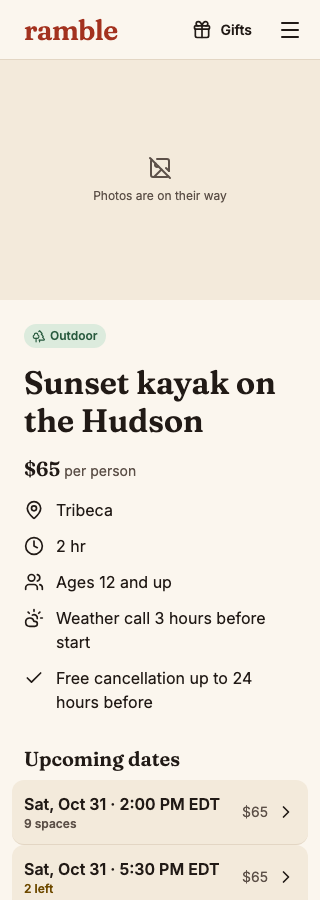
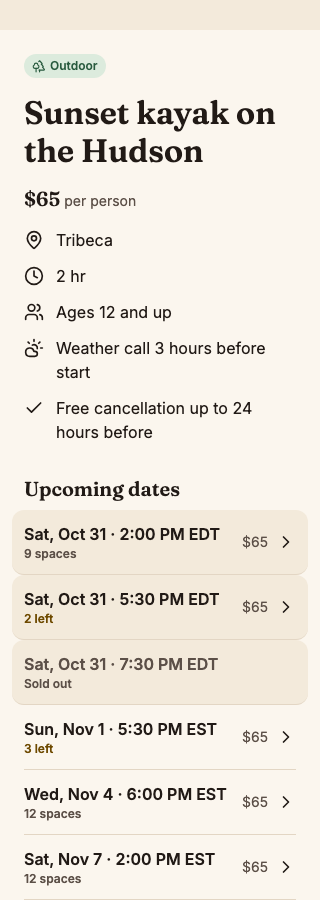
e2e-money: U-047b merged (PR 278); U-040 passed; U-050, U-041 built

diff --git a/STATUS.md b/STATUS.md
@@ -82,6 +82,7 @@ Several PM chats run at once. Each works one lane and writes only its own parts 
 - **2026-10-29 12:10, opened by the lead, not started.** Scope: the clear fixes across the three audit files that the `src/lib` refactor does not absorb. Home (`audits/home-2026-10-28.md`): every row whose status is `open` except the DRY items the refactor takes (H-2, H-25, H-43, H-44, H-45, H-51, H-52, H-57, H-58, H-59, H-60, H-61, H-62, H-63, H-69, H-76 to H-79) and the owner decisions (the lead brings those to Dave as one recommendations doc). Browse and experience: BE-13, BE-8, BE-7, BE-14, BE-1 (marked fix, in that order). Nightly: N1029-1 (high: seed guard lets a production Neon URL through), N1029-2 (H-19 partial), N1029-3, 4, 5, 6, 7, 10, 11. Group by file into small PRs, each with before-and-after evidence. Shares the five-builder limit with `e2e-money`: two builders until the lead says otherwise.
 
 ### Lane: e2e-money
+- **2026-10-29 23:44, U-047b merged; U-040 passed; U-050 and U-041 built.** (1) **U-047b merged into `integration`** (PR 278, `44b4444`); Done on board #19 (1.0 day against 1.75 / 3 / 6). The real checkout is in `integration`, with the demo click-through kept until U-041. (2) **U-040** (dates and spaces left) round 1, all five PASS (QA on a seeded production build: CLS 0 for six dates, spaces left match the database and refresh within the cache window, one spaces read per row, `?date=` on the session's own calendar); merging `44b4444` (one conflict: the identical `zonedShortDayLabel`). (3) **U-050** (confirmation page) built; merging `44b4444` (route move into `(site)`). (4) **U-041** (booking bar) built at `0614c3b`; its builder placed a real hold through the bar on a live database and reached `/checkout/<holdId>`; rulings in DECISIONS; widening the booking choices beyond six dates before its merge and review. Landing order: U-040, U-050, U-041; then the seeded click-through. Promotion of `integration` to `main` is Dave's call any time: guests keep the demo click-through until U-041 lands.
 - **2026-10-29 20:36, U-049 merged; U-040 and U-050 built; U-041 building; U-047b round 3.** (1) **U-049 merged into `integration`** (PR 277, `98096b2`; one CI flake fixed in tests, BC-27, BC-28); Done on board #19 (0.3 days against 2 / 4 / 8). `integration` now confirms a paid booking end to end through the webhook. (2) **U-047b** round 3 at `435d30b` (squashed on `98096b2`): the summary toggle fixed in the shared `OrderSummary`, the per-request log traced to Next's prerender-end signal wrapped by the Neon driver and silenced in `rethrowOrLog`, honest re-hold refusals, focus after re-hold; five checks running. (3) **U-040** (dates and spaces left) at `2dd8c1d` on `98096b2`: review, spec, architecture, a11y PASS; QA running. (4) **U-050** (confirmation page) built at `e60c315` (proxy handoff for the token, `getOrderStatus` poller, receipt with calendar and maps, manage link once confirmed; seller-of-record wording a PM ruling for Dave); it merges after U-047b lands (route move). (5) **U-041** (booking bar) building from U-040's head. Landing order: U-047b, U-040, U-050, U-041; then a seeded click-through on the fake gateway for Monday.
 - **2026-10-29 20:15, U-049 PR 277 open; U-050 and U-040 building.** (1) **U-049** (`confirmOrder`) round 1, all four PASS (QA through the real route: the worked example to the cent, one scheduled transfer at session end + 24 h, both emails in the dev mailbox; a replay changes nothing; a lapsed hold without room keeps retrying behind the U-109 seam; an amount mismatch alerts once; three mutations each killed). PR 277 into `integration`, checks posted, auto-merge queued. (2) **U-050** (confirmation page) builder launched from `unit/U-049` `81b8171`; **U-040** (dates and spaces left) from `integration` `b2314f1`; both In Progress on board #19 (DECISIONS: no pattern notes needed). (3) **U-047b** round 2 waiting on QA, then round 3 (the desktop summary toggle). Path to Monday after these: U-041 (booking bar, needs U-040), then a full click-through on the fake gateway.
 - **2026-10-29 20:11, U-048 merged; U-049 built and in review; U-047b round 2 nearly done.** (1) **U-048 merged into `integration`** (PR 276, `b2314f1`); Done on board #19 with actuals (1.0 day against 1.5 / 3 / 6); worktree removed (`unit/U-048` kept locally until U-049 lands). `integration` now holds U-005, U-019, U-045b, U-015, U-014a, U-054, U-016, U-047a, U-014b, U-048: promotion to `main` is Dave's call (no guest-visible change until U-047b). (2) **U-049** (`confirmOrder`) built in about 17 minutes: `confirmDecision` in lib, the booking confirm (seats, hold converted, order confirmed, manage hash, `bookingPaid` and the card fee, a scheduled transfer, two email jobs), the refund path behind a U-109 seam, not-built gift and exchange stubs, 22 db tests including the end-to-end through the webhook route and a last-seat race; re-parented onto `b2314f1` with an identical tree as `81b8171`; four round 1 checks running (`drafts/u-049-checks/brief.md`). (3) **U-047b** round 2 at `8c8d1bb` (squashed on `b2314f1`): spec and architecture PASS; review and a11y FAIL on one item (the desktop summary toggle reads collapsed over a visible panel, WCAG 4.1.2); QA running; round 3 moves the 768 px behaviour into `OrderSummary`. PM ruling: the two-transaction re-hold is accepted (BC-24).

diff --git a/drafts/u-047b-pr-body.md b/drafts/u-047b-pr-body.md
@@ -1,0 +1,31 @@
+Unit U-047b, issue #55. Standard tier, into `integration` (PM ruling, DECISIONS 2026-10-29: `startPayment` lives there). Three rounds plus three merges of `integration`; all five checks (review, qa, spec-compliance, architecture-audit, a11y-audit) passed round 3. Squashed to one commit because CI's gitleaks scans every PR commit and an early commit carried a false positive.
+
+SCOPE MANIFEST
+IN SCOPE: Screen 05 and D05: contact, unticked opt-in, attendee age and guardian fields from `ageRule.requirements`, waiver and terms, validation display, hold timer, order summary, express pay area and the provider card island wired to the fake gateway, demo no-payment notice, checkout maintenance state; on success, to `/orders/[reference]` with the order token.
+OUT OF SCOPE: `startPayment` logic (U-047a), the booking bar (U-041), webhooks and `confirmOrder` (U-048, U-049), the confirmation page (U-050), gift checkout, `docs/plan/`, `.github/`, `.claude/`.
+REFERENCE CODE: design doc 4.2.3 (the `startPayment` contract and outcomes), 5.2 (S6, S7, S9); ADR 0007; Figma 05 Checkout (the only frame; no D05 or state frames yet).
+
+## What was built
+- **`/checkout/[holdId]`** (`src/app/(checkout)/checkout/[holdId]/page.tsx`) reads the view for the calling device (`readCheckoutView`; another device's, missing, gift, converted or released holds read as not found; missing terms or a required waiver throw) and renders one client island, `CheckoutPage`: contact, the opt-in unticked, the age and guardian fields from `ageRequirements`, waiver and terms, validation with a summary and focus on the first error (the server's schema runs in the browser first, so a bad form never spends one of the hold's 5 tries), the hold timer from the database clock, the order summary, and the fake card island.
+- **Pay in two taps**: "Continue to payment" calls `startPayment` (never on load, refresh or re-render; a test mounts the page five times), then the fake form's own Pay with the wallets above it; success goes to `/orders/<ref>?t=<token>`.
+- **States**: S6 (hold ended, with "Hold my spaces again"), S7 (sold out, with other dates), S9 (lost answer), too many tries, maintenance, all taking focus on change.
+- **Re-hold** (`src/server/actions/rehold.ts`, `src/server/db/rehold.ts`): only the caller's own lapsed hold, released under the session and hold locks, then `reserveSpaces` for the same party read from the server; a live, paying or another device's hold is refused uniformly; a refusal after the release says the hold has ended and links back to the experience.
+- **`OrderSummary`** gains an opt-in `openFrom="tablet"`: open with a plain heading from 768 px, toggle below.
+- **`rethrowOrLog`** no longer logs Next's prerender-end signal when the Neon driver wraps it (`isPrerenderEnd`), so a normal render logs nothing.
+- Route groups: `(checkout)` is a bare document for the island's header; the stub frame moved to `(site)` (gift, gifts, manage, orders). The demo click-through stays until U-041 (`TODO(U-041)`).
+
+## Decisions to know about
+- PM rulings (DECISIONS 2026-10-29): two-tap pay (a recorded design departure); the full-pay e2e waits for a seeded e2e mode (BC-19, needs `.github`); the re-hold runs in two transactions and loses the guest nothing (BC-24); re-hold skips BotID because ADR 0007 keeps it out of checkout, bounded by the `reserve` rate limit and the device's own lapsed hold.
+- Figma has only the lo-fi 05 frame; eight differences beyond the two-tap departure are listed for the owner (BC-22).
+
+## Gates (on this head)
+format:check, lint, typecheck, knip; test 6,030; test:db 1,547 with `--maxWorkers=2`; build with no `DATABASE_URL`; db:check, `db:generate` with no changes; e2e 163; storybook:test 227 (axe); gitleaks over the branch range (no leaks). QA on a seeded production build at 320 to 1280 px, light and dark: no sideways scroll with a 59:59 timer; twelve replays of the re-hold on a live hold make none and on one lapsed hold make exactly one; reloads never call `startPayment`; the pay flow lands on the order page.
+
+## Not done
+- The real confirmation page is U-050; the booking bar that creates real holds is U-041.
+- Audit items BC-19 to BC-24 and BC-29 in `ramble-pm` `audits/booking-checkout.md`.
+
+## Evidence
+`evidence/pr/unit-U-047b/` in `ramble-pm` (before and after at 390 and 1280, light and dark; S6, S7, S9; the header at 320 and 390; a full pay GIF from Storybook) and `evidence/pr/unit-U-047b-qa-agent/` (QA's production-build screenshots).
+
+🤖 Generated with [Claude Code](https://claude.com/claude-code)

diff --git a/delta-log.md b/delta-log.md
@@ -76,3 +76,4 @@ Where reality departs from the frozen plan (`plan-frozen-2026-10-20`). One line 
 | 2026-10-29 | U-014b Hold rules and upkeep (e2e-money lane from 16:30, closed) | Merged into `integration` as PR 274 (`16231c0`, squash) on 2026-10-29 19:55 EDT. Actual 0.7 days (builder launch about 17:45 to merge, agent wall clock) against 1 / 2 / 4.5; 0 owner minutes; about 1.9M tokens (builder over two rounds and two merges plus eight checks). Two rounds: round 1 found one export used only by tests and a release split in the data layer, and QA showed the race test could not tell whether the address lock existed (12 devices on one address across 12 sessions held 10 seats without it); round 2 fixed both and added a cross-session test, then merged `integration` twice (U-047a; the PR 241 main sync) and renumbered the migration to `0018`. An early e2e failure was the sandbox blocking Chromium, not the diff. | Under the estimate by over 60%. Two design-doc departures recorded above. |
 | 2026-10-29 | U-048 Webhook intake and the event table (e2e-money lane from 16:30, closed) | Merged into `integration` as PR 276 (`b2314f1`, squash) on 2026-10-29 20:10 EDT. Actual 1.0 day (builder launch about 16:45 to merge, agent wall clock) against 1.5 / 3 / 6; 0 owner minutes; about 2.6M tokens (builder over two rounds and three merges plus twelve checks). Human-led in the plan; built by an agent under a pattern note (DECISIONS). Three rounds: round 1 found ten B2 decisions in the route, job and data layer, a provider call inside the job's transaction, no test of the post-lock re-read, and that a success would be stranded while `confirmOrder` is a stub (PM ruling: it re-enqueues itself with backoff and gives up with one alert at 25); round 2 fixed all of it with a `prepare` hook on the job registry; round 3 merged `integration` twice (U-047a and the main sync; U-014b) and reconciled `lockOrderRow` with U-047a's. | Under the estimate by about 65%. |
 | 2026-10-29 | U-049 confirmOrder for bookings (e2e-money lane, closed) | Merged into `integration` as PR 277 (`98096b2`, squash) on 2026-10-29 20:27 EDT. Actual 0.3 days (builder launch about 19:55 to merge, agent wall clock) against 2 / 4 / 8; 0 owner minutes; about 1.0M tokens (builder, four checks, one CI fix). Human-led in the plan; built by an agent under a pattern note written the same evening (DECISIONS). One review round, all four PASS (QA reproduced the worked example to the cent through the real route); CI's db job then failed on a test that forced a job due by the database clock and drained by the JS clock (BC-27, BC-28), fixed in tests only and re-checked. | Under the estimate by over 90%: U-048's seam and the pattern note left only the booking branch to write. |
+| 2026-10-29 | U-047b Checkout page (e2e-money lane, closed) | Merged into `integration` as PR 278 (`44b4444`, squash) on 2026-10-29 21:00 EDT. Actual 1.0 day (builder launch about 16:20 to merge, agent wall clock) against 1.75 / 3 / 6; 0 owner minutes; about 4.4M tokens (builder over three rounds and three merges plus fifteen checks). Three rounds: round 1 found a re-hold that minted a live hold on every call with no bot check (QA reproduced 12 holds from one), the header timer overflowing at 320 px, duplicated helpers, an island hook off the allowlist; round 2 found the desktop summary toggle reading collapsed over an open panel; QA also traced a log line on every request to Next's prerender-end signal wrapped by the Neon driver. Two-tap pay recorded as a design departure; the full-pay e2e waits for a seeded e2e mode (BC-19). | Under the estimate by about 65%. |

diff --git a/audits/booking-checkout.md b/audits/booking-checkout.md
@@ -34,3 +34,7 @@
 | BC-26 | A late `payment.succeeded` for an order already `cancelled` or `refunded_after_lapse` makes `confirmDecision` throw, so the event retries quietly until U-048's give-up cap alerts at 25. Fails closed; decide the right answer (refund the late payment) in U-109 or U-056. | Architecture | U-049 review | open (U-109) |
 | BC-27 | Db tests that force a job due with `run_after = now()` (database clock) and then drain against the JS clock flake when the clocks differ; CI failed PR 277 on one. Use a time safely in the past on both clocks, or drain with an explicit clock. | Tooling | U-049 CI | fix: U-049 |
 | BC-28 | `jobs.run_after` defaults to the database clock while `claimDueJobs` compares it with the app's JS clock, so a just-enqueued job can be not yet due by the clock difference (seen as test flakes; in production the next drain picks it up). Compare in SQL with `now()` or pass one clock both ways. | Architecture | U-049 CI fix | open (U-005 owner) |
+| BC-29 | `OrderSummary.tsx` (`openFrom` branch): the new `<h2>` sits inside a `<span>` (block content in phrasing content, invalid HTML); and the checkout h1's `:focus { outline: none }` hides where focus went after a re-hold. | Accessibility | U-047b round 3 a11y | open |
+| BC-30 | Checkout: after a lapse-block, paused or seat-limit refusal from S6 focus drops to BODY (the alert is announced; focus it as S7 does); with JS off below 768 px the summary cannot be opened; the sold-out panel keeps the earlier "Your hold has expired." line. | Accessibility | U-047b round 3 QA | open |
+| BC-31 | Experience page dates: the six-row skeleton shifts content up when fewer dates load (2 dates: 260 px, CLS 0.040 at 390 px) and the empty and error states shrink the section; the retry form drops `?date=`; the `?date=` row's background is about 1.1:1 against the page and the same as hover (needs a border or marker). | Visual, accessibility | U-040 QA and a11y | open |
+| BC-32 | `releaseHold` (U-014a) still has no caller and carries a stale `TODO(U-041): first caller`; no unit in `units.yaml` releases a hold on the guest leaving checkout. Owner call: a "leave checkout" release in a later unit, or drop the action. | Architecture | U-041 builder | open (owner) |

diff --git a/DECISIONS.md b/DECISIONS.md
@@ -191,3 +191,4 @@ Choices kept for speed that later work may need to undo. Each is cheap now and c
 - **2026-10-29, e2e-money lane, PM ruling on U-047b round 2 (Dave can overrule):** the two-transaction re-hold (release the lapsed hold, then `reserveSpaces`) is accepted: review and architecture found it loses the guest nothing and cannot race into two holds (BC-24). The desktop summary toggle's wrong `aria-expanded` is fixed now in the shared `OrderSummary` (it owns the 768 px open-by-default behaviour and hides its toggle there), which also removes the checkout stylesheet reaching into another component's markup.
 - **2026-10-29, e2e-money lane, U-040 and U-050 launched without pattern notes (PM; Dave can overrule):** both are small, agent-fan-out units whose units.yaml scope is exact enough for a scope manifest. U-050 (critical) is cut from `unit/U-049` and goes into `integration`; it reads the order token from `?t=` once and replaces the URL so the token leaves history and the Referer (BC-20). U-040 (standard) is cut from `integration` and goes into `integration`, because U-014b's cached spaces-left read lives there; it is the first caller of `getSpacesLeft`.
 - **2026-10-29, e2e-money lane, PM ruling on U-050 (Dave can overrule; wording is yours):** the receipt's seller-of-record line is "{Host} is the seller of this experience. Ramble collected your payment as {Host}'s agent." (Q-01 option c, ADR 0003; the design doc gives no wording). Refresh-safe access uses a proxy handoff: `/orders/<ref>?t=<token>` answers 303 to the token-free path and sets an HttpOnly, path-scoped, 2-hour cookie, so the token never renders, stays out of history and the Referer, and needs no new client island or Route Handler; the page verifies the cookie, so a forged one opens nothing.
+- **2026-10-29, e2e-money lane, PM rulings on U-041 (Dave can overrule):** the booking choices offer more than U-040's six listed dates (a bounded, wider read); the demo click-through is removed when U-041 merges U-047b; the three `*Island` files are the allowlisted bar, sheet and panel (B8); `useBookingDraft` keeps one draft per experience in a module store read with `useSyncExternalStore`, so the bar, sheet and panel agree without a shared client parent.

diff --git a/drafts/u-040-checks/r1-qa.md b/drafts/u-040-checks/r1-qa.md
@@ -1,0 +1,11 @@
+PASS
+
+## qa-agent: U-040 "Upcoming dates" (head 2dd8c1d)
+
+Scratch copy, fresh seeded Postgres, `next build` + `next start`, Playwright at 320, 390, 768, 1280 light and dark, a logging proxy counting queries. Blocking: none.
+Streaming: with reads slowed, six dates showed the skeleton at 424 px then rows at 424 px, content below unmoved, CLS 0; CLS 0 at all eight width and scheme pairs; no overflow; rows 65 px (Figma 64 plus the rule).
+Spaces against the database: seeded 12, 2, sold out, 3, 12, 12 matched; a 3-seat hold inserted directly showed 12 at once and 9 on the first request after about 10 s (the 8 s revalidate); a hold through the UI not possible until U-041.
+Read count: cold request 13 statements (1 list, 6 spaces reads with their clock reads), repeat 0, the next refresh 12; EXPLAIN `Limit 6` over an index scan on `sessions_experience_starts_at_idx` with the 90-day window; builder db test 11 of 11, new unit and component tests 45 of 45.
+Sold out stays listed as a `div` without chevron or price; time zones "Sat, Oct 31 · 2:00 PM EDT", "Sun, Nov 1 · 5:30 PM EST"; `?date=` marks exactly the right rows on the session's own calendar (no UTC-day mix-up), bad values return 200 with nothing marked; empty and error states as specified (error section only, 46 px GET retry, logs only digest and kind, not cached); contrast light 6.66:1 and 6.53:1, dark 13.2:1 and 10.1:1; Figma `_Flow/SessionRow` states match; builder's differences hold; `zonedShortDayLabel` identical to U-047b's.
+Non-blocking: the 6-row skeleton shifts content up for fewer dates (2 dates: 260 px, CLS 0.040 at 390), and the empty and error states shrink the section; retry drops `?date=`; the selected background is about 1.1:1 against the page and equals the hover colour; a paused experience shows not-found (no dates); rows link to the existing booking link.
+Evidence: `evidence/pr/unit-U-040-qa-agent/`.

diff --git a/drafts/u-047b-checks/r3-review.md b/drafts/u-047b-checks/r3-review.md
@@ -1,0 +1,21 @@
+PASS
+
+## review-agent: U-047b round 3 (head 435d30b)
+
+### Blocking
+None.
+
+### Non-blocking
+- `rethrowOrLog` now rethrows on `isPrerenderEnd` (`src/lib/prerender.ts`). It matches only a message containing "During prerendering," on the error or within 3 causes, so it cannot swallow an ordinary database error. It is a message match, so a Next.js wording change would bring the log line back, not hide anything.
+- `?t=` token in history and logs (BC-20, carried from round 2).
+
+### Round 2 findings
+- Desktop toggle: fixed. `OrderSummary.module.css` hides the toggle with `display: none` from 768 px, so it is out of the tab order and the tree. The checkout stylesheet no longer reaches into `OrderSummary`. `openFrom` is opt-in; `CheckoutPage.tsx` is the only caller that passes it, so other callers are unchanged. Stories cover desktop and phone.
+- Re-hold copy: `try_later` and `unreachable` are returned only before the claim or when the answer never arrived, and keep the retry. Every refusal after the claim sets `released`, which hides the retry and shows the experience link.
+- Merge: `git diff 98096b2 435d30b -- src/server/db/migrations` is empty. `claimLapsedHold` calls `requireHoldTransition` under the locks.
+- Scope: no new out-of-scope files. The `zonedShortDayLabel` and `orderConfirmationPath` overlaps are ignored as the brief says.
+- Unconfirmed from round 2 is closed: no copy in `src` says details are saved.
+- Tests run in a scratch copy of 435d30b: 104 passed across 9 files (prerender, monitoring, checkoutFlow, CheckoutPage, OrderSummary, checkout page).
+
+### Unconfirmed
+- I did not rerun the db, e2e or Storybook suites or do the browser QA checks; those are the qa-agent's.

diff --git a/drafts/u-047b-checks/r3-qa.md b/drafts/u-047b-checks/r3-qa.md
@@ -1,0 +1,11 @@
+PASS
+
+## qa-agent: U-047b round 3 (head 435d30b)
+
+Scratch copy, fresh seeded Postgres, `next build` + `next start`, Playwright. Blocking: none.
+Desktop toggle fixed: at 768, 1024, 1280 with JS on and off the toggle is `display: none`, out of the tab order (Tab goes from the logo to Email), no button exposed, one h2 with the title, panel visible (flex, 178 px) with title, meta, total; at 320, 390, 767 the toggle is a button `aria-expanded="false"`, at 390 a click opens and a second collapses; no sideways scroll at any width.
+Log fixed: eight `/checkout/<id>` requests with a device cookie returned 200 with only start-up lines in the server log, including after every refusal below; the real checkout renders.
+Re-hold refusals from S6 at 390, each with its cause and no "Hold my spaces again" afterwards: sold out (S7 with three dates and "See all dates"); lapse block, paused, seat limit each say the earlier hold has ended with a "Choose another date" link to the experience; a reload then shows not-found, as the copy says. Successful re-hold: `/checkout/<newId>?rehold=1`, focus on the h1.
+Merge and scope: migrations match 98096b2; 70 files under `src`, `e2e`, `tests`, `.storybook`.
+Non-blocking: after the lapse-block, paused and seat-limit refusals focus drops to BODY (announced through `role=alert`; focusing the alert would match S7); with JS off at 390 the summary cannot be opened (unchanged from round 2); the sold-out panel still shows the earlier "Your hold has expired." live-region line (cosmetic).
+Evidence: `evidence/pr/unit-U-047b-qa-agent/summary-*-r3.png`, `s6-*-r3.png`.

diff --git a/drafts/u-047b-checks/r3-spec.md b/drafts/u-047b-checks/r3-spec.md
@@ -1,0 +1,7 @@
+PASS
+
+## spec-compliance: U-047b round 3 (head 435d30b)
+
+Static check of `98096b2..435d30b` (70 files) and `8c8d1bb..b1780d6` (17 files). Blocking: none.
+The 12 scope-line clauses still pass; migrations match 98096b2; `requireHoldTransition` in `claimLapsedHold` under the locks (`src/server/db/rehold.ts`).
+Round 3: `OrderSummary` opt-in `openFrom?: 'tablet'` renders a plain `<h2>` head with title, meta, total (`fixedHead`) and `data-open-from`; other callers unchanged; `CheckoutPage.tsx:227` opts in. `isPrerenderEnd` (`src/lib/prerender.ts`) walks at most 3 causes and matches only "During prerendering,"; `rethrowOrLog` rethrows on it without logging; any other error logs as before. `try_later` only when the reserve limit blocks before anything is touched (`src/server/actions/rehold.ts:31`); network failure `unreachable` (`CheckoutPage.tsx:167`); post-claim refusals set `released` (`checkoutFlow.ts:240`), hide the retry, show "Your earlier hold has ended" and "Choose another date" (`CheckoutPage.tsx:520`). After a re-hold `/checkout/<id>?rehold=1` (`routes.ts:79`), `focusTitle` (`page.tsx:78`), h1 `tabIndex={-1}` focused (`CheckoutPage.tsx:119, 212`). Other components only lose `TODO(U-047b)` comments. Scope clean; known overlaps not failed.

diff --git a/drafts/u-047b-checks/r3-arch.md b/drafts/u-047b-checks/r3-arch.md
@@ -1,0 +1,8 @@
+PASS
+
+## architecture-audit: U-047b round 3 (head 435d30b)
+
+Static read of `8c8d1bb..b1780d6` and the merge. Blocking: none.
+Round 2 fixed: desktop toggle via opt-in `openFrom="tablet"` (`display: none` from 768 px, panel by CSS); no checkout selectors into `OrderSummary`'s DOM.
+B13 `rethrowOrLog`: `isPrerenderEnd` (pure, `src/lib/prerender.ts`) matches only "During prerendering," within 3 causes; a match is rethrown, never swallowed; every other error reaches `logger.error`. `OrderSummary` callers: only `DemoOrderSummary.tsx` (untouched) and `CheckoutPage.tsx`; `openFrom` optional, CSS scoped to `[data-open-from='tablet']`, tokens only (B16). Re-hold: `try_later` only before `claimLapsedHold`; typed `ReholdResult`; copy and `released`/`canRehold` decisions in `src/lib/pages/checkoutFlow.ts` (B2); thin action. Merge: migrations match; `requireHoldTransition(hold.status, 'released')` at `src/server/db/rehold.ts:56` under the locks. Scope clean.
+Advisory: `(await searchParams).rehold === '1'` inline in the page (move to lib if it grows); earlier A2, B6 note and CSS literals stand; overlaps with U-040 and U-050 accepted.

diff --git a/drafts/u-047b-checks/r3-a11y.md b/drafts/u-047b-checks/r3-a11y.md
@@ -1,0 +1,7 @@
+PASS
+
+## a11y-audit: U-047b round 3 (head 435d30b)
+
+Static audit. Blocking: none.
+Fixed: from 768 px `.summary[data-open-from='tablet'] .toggle { display: none }` removes the button from tab order and tree; a plain `<h2>` (`.fixedHead`) with title, meta and total; `.details[hidden]` shown; below 768 the toggle works; old overrides gone; only `CheckoutPage.tsx` opts in; heading order h1 then h2s; `focusTitle` focuses the h1 (`tabIndex={-1}`); expired panel focused with real text and a real "Choose another date" link.
+Advisory: `.title:focus { outline: none }` on the programmatically focused h1 (a visible indicator would help); the `<h2>` sits inside `<span className={styles.text}>` in `OrderSummary.tsx` (block content in a span is invalid HTML; use a `div`); 59:59 pill contrast at 320 px still a manual check; maintenance has no next link.
